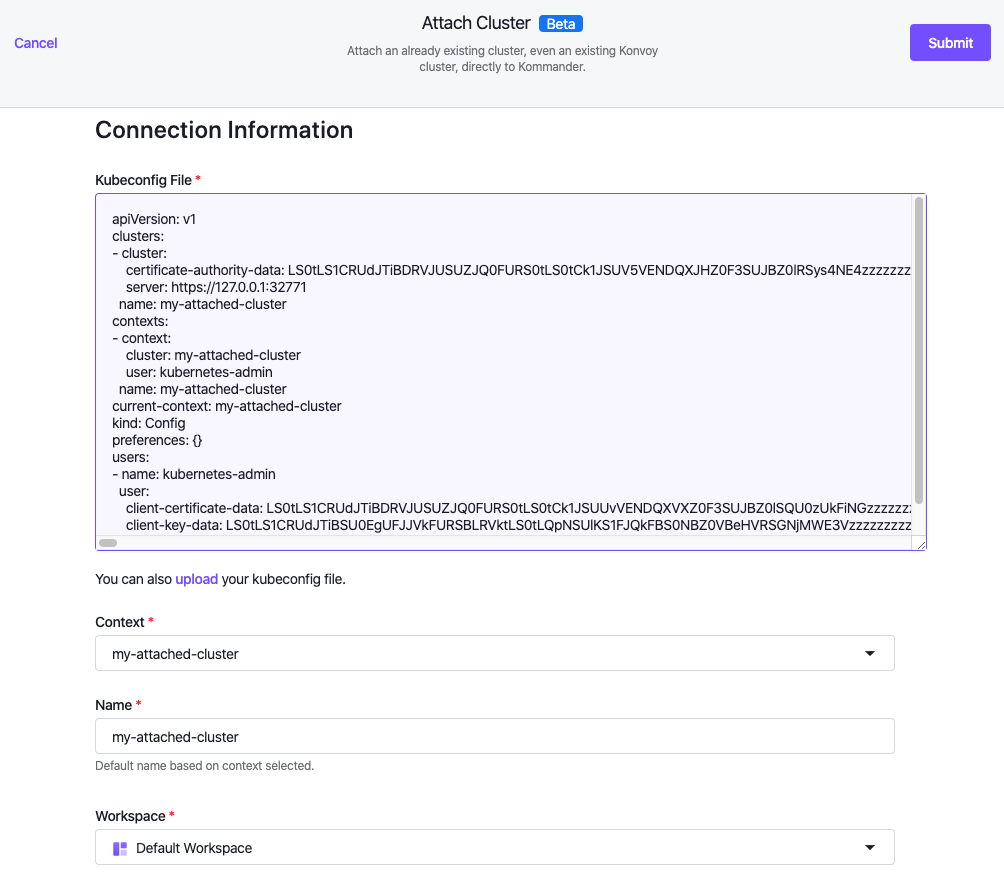
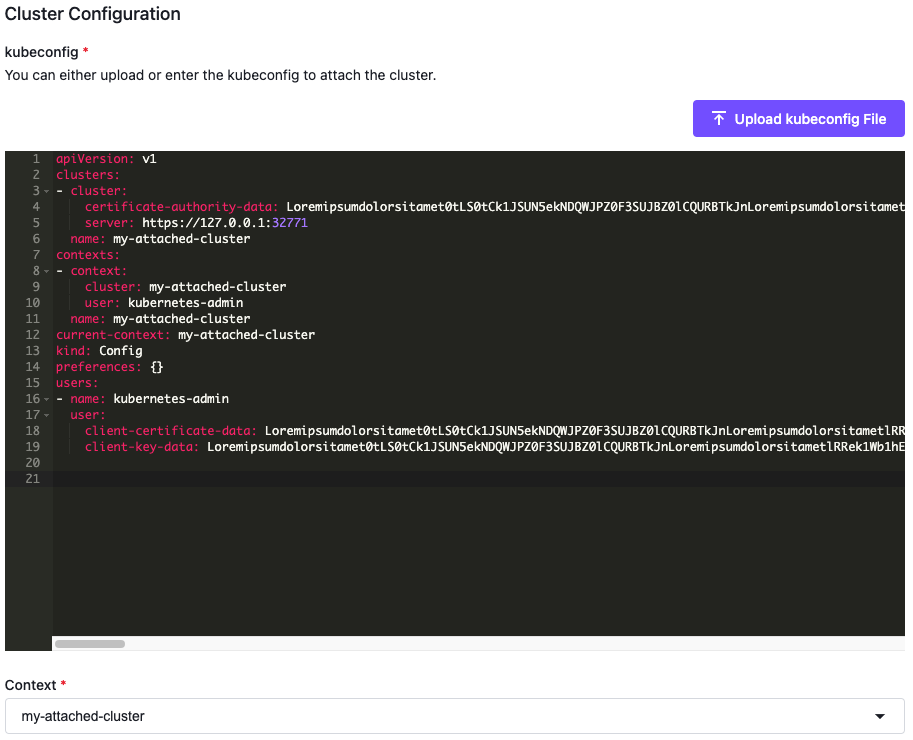
docs: sync with mesosphere/kommander:main

diff --git a/pages/dkp/kommander/2.0/workspaces/service-federation/index.md b/pages/dkp/kommander/2.0/workspaces/service-federation/index.md
@@ -9,87 +9,24 @@ excerpt: How to federate services on to attached clusters
 <!-- markdownlint-disable MD004 MD040 -->
 
 This topic describes how to federate a service to an attached cluster.
-<p class="message--note"><strong>NOTE: </strong>Single-Sign-On stack is not currently supported, so some of these services may not be fully functional.</p>
+<p class="message--warning"><strong>WARNING: </strong>Single-Sign-On (SSO) stack is not currently supported. Services configured to use SSO might not function properly or completely.</p>
 
 Currently, the `reloader` service is automatically federated to attached clusters. To federate other services, follow the steps below.
 
 ## Before you begin
 
-You need certain software configurations and settings before you start this procedure. This procedure requires the following items and configurations:
+You must have the following before you begin:
 
-- A running cluster with Kommander installed
-- An unattached Kubernetes cluster
+- A running cluster with [Kommander installed](../../install/).
+- An [existing Kubernetes cluster attached to Kommander](../../clusters/attach-cluster/).
 
-## Attach a cluster
+Set the `WORKSPACE_NAMESPACE` environment variable to the name of the workspace's namespace where the cluster is attached:
 
-Run the following commands on the Kommander cluster to create a workspace and attach a cluster into it.
-
-<p class="message--important"><strong>IMPORTANT: </strong>The Default Workspace is currently reserved for the host management cluster. All other clusters must be attached to a different workspace.</p>
-
-1. Create a new workspace:
-
-```yaml
-cat <<EOF | kubectl apply -f -
-apiVersion: workspaces.kommander.mesosphere.io/v1alpha1
-kind: Workspace
-metadata:
-  name: workspace-test
-EOF
+```sh
+export WORKSPACE_NAMESPACE=<workspace_namespace>
 ```
 
-After the workspace is successfully created, it appears in the list:
-
-```bash
-kubectl get workspaces
-NAME                DISPLAY NAME        WORKSPACE NAMESPACE           AGE
-default-workspace   Default Workspace   kommander-default-workspace   62m
-workspace-test                          workspace-test-vjsfq          12m
-```
-
-<p class="message--note"><strong>NOTE: </strong>Use the newly created workspace namespace and adjust the following commands accordingly. The actual namespace shown is a generated component, so it is different than the listed commands.</p>
-
-1. Create a secret containing the kubeconfig for the cluster you want to attach:
-
-```bash
-kubectl create -n workspace-test-vjsfq secret generic kommander-spoke-1-kubeconfig --from-file=kubeconfig
-```
-
-1. Create the `KommanderCluster` resource. This attaches the cluster and makes it visible in Kommander.
-
-<p class="message--note"><strong>NOTE: </strong>Creating the resource inside the workspace namespace ensures the cluster is part of the workspace.</p>
-
-```yaml
-cat <<EOF | kubectl apply -f -
-apiVersion: kommander.mesosphere.io/v1beta1
-kind: KommanderCluster
-metadata:
-  name: kommander-spoke-1
-  namespace: workspace-test-vjsfq
-spec:
-  kubeconfigRef:
-    name: kommander-spoke-1-kubeconfig
-EOF
-```
-
-The cluster achieves `Joined` status:
-
-```bash
-kubectl get kommandercluster -A
-NAMESPACE                     NAME                DISPLAY NAME   STATUS   KUBEFED CLUSTER     AGE
-kommander-default-workspace   host-cluster                       Joined   host-cluster        66m
-workspace-test-vjsfq          kommander-spoke-1                  Joined   kommander-spoke-1   6m29s
-```
-
-Additionally, the cluster must appear in the list of kubefed-clusters:
-
-```bash
-kubectl get kubefedclusters -A
-NAMESPACE   NAME                AGE     READY
-kommander   host-cluster        66m     True
-kommander   kommander-spoke-1   2m47s   True
-```
-
-## Deploy a service
+## Deploy the service
 
 The list of available platform services that can be federated on the attached cluster are:
 
@@ -102,11 +39,9 @@ grafana-logging-6.9.1          grafana-logging
 istio-1.9.1                    istio
 jaeger-2.21.0                  jaeger
 kiali-1.29.0                   kiali
-kommander-current              kommander
 kube-oidc-proxy-0.2.5          kube-oidc-proxy
 kube-prometheus-stack-15.4.6   kube-prometheus-stack
 kubecost-0.13.0                kubecost
-kubefed-0.8.1                  kubefed
 kubernetes-dashboard-4.0.3     kubernetes-dashboard
 logging-operator-3.10.0        logging-operator
 loki-distributed-0.33.1        loki-distributed
@@ -119,87 +54,95 @@ traefik-forward-auth-0.2.14    traefik-forward-auth
 velero-3.1.1                   velero
 ```
 
-**Note:**  `dex`, `kubefed`, `kommander` and `dex-k8s-authenticator` are excluded from the list because they cannot be federated on the attached clusters.
+<p class="message--note"><strong>NOTE: </strong><code>dex</code>, <code>kubefed</code>, <code>kommander</code> and <code>dex-k8s-authenticator</code> are excluded from the list because they cannot be federated on an attached clusters.</p>
 
-With the cluster now attached, deploy one of the defined services with an `AppDeployment` resource. The `AppDeployment` has an `appRef` that specifies which `App` is federated.
+<p class="message--note"><strong>NOTE: </strong>Currently, Kommander only supports a single deployment of <code>cert-manager</code> per cluster. Because of this <code>cert-manager</code> can not be installed on <code>konvoy</code> managed <code>AWS</code> clusters.</p>
 
-```yaml
-cat <<EOF | kubectl apply -f -
-apiVersion: apps.kommander.d2iq.io/v1alpha1
-kind: AppDeployment
-metadata:
-  name: cert-manager-0.2.7
-  namespace: workspace-test-vjsfq
-spec:
-  appRef:
-    name: cert-manager-0.2.7
-EOF
-```
+<p class="message--note"><strong>NOTE: </strong>Only a single deployment of <code>traefik</code> per cluster is supported.</p>
 
-To instruct Kommander to federate the `AppDeployment` to the `KommanderCluster`s in the same workspace, create the resource in the workspace you just created.
-The `appRef.name` must match the app `name` from the list of available services.
+1.  Deploy one of the supported services to [your existing attached cluster](../../clusters/attach-cluster/) with an `AppDeployment` resource.
+
+1.  Within the `AppDeployment`, define the `appRef` to specify which `App` will be federated:
+
+    ```yaml
+    cat <<EOF | kubectl apply -f -
+    apiVersion: apps.kommander.d2iq.io/v1alpha1
+    kind: AppDeployment
+    metadata:
+      name: cert-manager-0.2.7
+      namespace: ${WORKSPACE_NAMESPACE}
+    spec:
+      appRef:
+        name: cert-manager-0.2.7
+    EOF
+    ```
+
+1.  Create the resource in the workspace you just created, which instructs Kommander to federate the `AppDeployment` to the `KommanderCluster`s in the same workspace.
+
+<p class="message--note"><strong>NOTE: </strong>The <code>appRef.name</code> must match the app <code>name</code> from the list of available services.</p>
 
 ## Deploy a service with a custom configuration
 
-Locate the default service configuration in a `ConfigMap`:
+1.  Locate the default service configuration in the `ConfigMap`:
 
-```bash
-kubectl get configmap -n workspace-test-vjsfq metallb-d2iq-defaults -oyaml
-```
+    ```bash
+    kubectl get configmap -n ${WORKSPACE_NAMESPACE} metallb-d2iq-defaults -oyaml
+    ```
 
-To provide custom configuration on top of the default configuration, provide the name of a `ConfigMap` in the `AppDeployment`:
+1.  Provide the name of a `ConfigMap` in the `AppDeployment`, which provides custom configuration on top of the default configuration:
 
-```yaml
-cat <<EOF | kubectl apply -f -
-apiVersion: apps.kommander.d2iq.io/v1alpha1
-kind: AppDeployment
-metadata:
-  name: metallb-0.12.2
-  namespace: workspace-test-vjsfq
-spec:
-  appRef:
-    name: metallb-0.12.2
-  configOverrides:
-    name: metallb-overrides-attached
-EOF
-```
+    ```yaml
+    cat <<EOF | kubectl apply -f -
+    apiVersion: apps.kommander.d2iq.io/v1alpha1
+    kind: AppDeployment
+    metadata:
+      name: metallb-0.12.2
+      namespace: ${WORKSPACE_NAMESPACE}
+    spec:
+      appRef:
+        name: metallb-0.12.2
+      configOverrides:
+        name: metallb-overrides-attached
+    EOF
+    ```
 
-The `AppDeployment` waits for the `ConfigMap` named `metallb-overrides-attached` to be present before federating it to the attached clusters:
+1.  The `AppDeployment` waits for the `ConfigMap` named `metallb-overrides-attached` to be present before federating it to the attached clusters:
 
-```yaml
-cat <<EOF | kubectl apply -f -
-apiVersion: v1
-kind: ConfigMap
-metadata:
-  namespace: workspace-test-vjsfq
-  name: metallb-overrides-attached
-data:
-  values.yaml: |
-    configInLine:
-       address-pools:
-        - name: default
-           protocol: layer2
-           addresses:
-           - 172.17.255.150-172.17.255.199
-EOF
-```
+    ```yaml
+    cat <<EOF | kubectl apply -f -
+    apiVersion: v1
+    kind: ConfigMap
+    metadata:
+      namespace: ${WORKSPACE_NAMESPACE}
+      name: metallb-overrides-attached
+    data:
+      values.yaml: |
+        configInLine:
+           address-pools:
+            - name: default
+               protocol: layer2
+               addresses:
+               - 172.17.255.150-172.17.255.199
+    EOF
+    ```
 
 ## Verify services
 
-These services are now federated. Connect to the attached cluster and check the `HelmReleases` to verify the deployment:
+The services are now federated. Connect to the attached cluster and check the `HelmReleases` to verify the deployment:
 
 ```bash
-kubectl get helmreleases -n workspace-test-vjsfq
+kubectl get helmreleases -n ${WORKSPACE_NAMESPACE}
 NAMESPACE               NAME        READY   STATUS                             AGE
 workspace-test-vjsfq    metallb     True    Release reconciliation succeeded   7m3s
 ```
 
-Note that some of these services have dependencies between themselves. See this list for the services dependencies:
+**Note** Some of the supported services have dependencies on other services:
 
 * `istio` **depends on** `kube-prometheus-stack`.
 * `kiali` **depends on** `istio` and `kube-prometheus-stack`.
-* `kube-oidc-proxy` **depends on** `dex`.
 * `kube-prometheus-stack` **depends on** `traefik`.
 * `kubecost` **depends on** `traefik` and `traefik-foward-auth`.
 * `traefik-foward-auth` **depends on** `traefik`.
 * `prometheus-adapter` **depends on** `kube-prometheus-stack`.
+* `velero` **depends on** `traefik`.
+* `kubernetes-dashboard` **depends on** `traefik`.

diff --git a/pages/dkp/kommander/2.0/clusters/attach-cluster/requirements-for-attaching/index.md b/pages/dkp/kommander/2.0/clusters/attach-cluster/requirements-for-attaching/index.md
@@ -8,23 +8,27 @@ excerpt: Requirements for attaching an existing cluster to Kommander
 
 ## Basic requirements
 
-To attach an existing cluster to Kommander, the Kommander management cluster must be able to reach the services and the api-server of the target cluster.
+To attach an existing cluster to Kommander, the Kommander management cluster must be able to reach the services and the `api-server` of the target cluster.
 
-You can attach existing clusters with or without networking restrictions to Kommander. These networking restrictions refer to clusters that are located in a DMZ, behind a proxy server or a firewall, or that have additional requirements for access.
+<!--- You can attach existing clusters with or without networking restrictions to Kommander. These networking restrictions refer to clusters that are located in a DMZ, behind a proxy server or a firewall, or that have additional requirements for access. -->
 
 <p class="message--note"><strong>NOTE: </strong>Kommander does not support attachment of K3s clusters.</p>
 
-For attaching existing clusters without networking restrictions the requirements depend on which Kommander version you are using. Each version of Kommander supports a specific range of Kubernetes versions. You must ensure that the target cluster is running a compatible version.
+For attaching existing clusters without networking restrictions, the requirements depend on which Kommander version you are using. Each version of Kommander supports a specific range of Kubernetes versions. You must ensure that the target cluster is running a compatible version.
 
-For example, Kommander 1.4 supports Kubernetes versions between 1.18.0 and 1.20.x. Any cluster you want to attach using Kommander 1.4 must be running a Kubernetes version in that range.
+For example, Kommander 2.0 supports Kubernetes versions between 1.19.0 and 1.21.x. Any cluster you want to attach using Kommander 2.0 must be running a Kubernetes version in that range.
 
-For attaching clusters with networking restrictions the Kubernetes version of the cluster you want to attach must be greater than or equal to version 1.19.x. For these types of clusters, the Kommander cluster uses a tunnel to access the clusters you plan to attach. Any managed service you want to expose in the Kommander cluster requires the creation of a reverse proxy, or the use of HTTPS_PROXY environment variables that point to the Kommander tunnel proxy server.
+<!--- For attaching clusters with networking restrictions the Kubernetes version of the cluster you want to attach must be greater than or equal to version 1.19.x. For these types of clusters, the Kommander cluster uses a tunnel to access the clusters you plan to attach. Any managed service you want to expose in the Kommander cluster requires the creation of a reverse proxy, or the use of HTTPS_PROXY environment variables that point to the Kommander tunnel proxy server.
 
-When working with clusters that have networking restrictions, you will need to apply some YAML manifests on the existing cluster, so that Kommander can collect a resulting `kubeconfig` file used to establish the tunnel. When you use the Kommander UI, this is handled for you. If you choose to use the manual [CLI attachment process][manual_cli_attachment], you will apply those manifests as part of the procedure.
+When working with clusters that have networking restrictions, you will need to apply some YAML manifests on the existing cluster, so that Kommander can collect a resulting `kubeconfig` file used to establish the tunnel. When you use the Kommander UI, this is handled for you. If you choose to use the manual [CLI attachment process][manual_cli_attachment], you will apply those manifests as part of the procedure. -->
 
 ### Projects and Workspaces
 
 Before you attach clusters, you need to create one or more Workspaces, and recommend that you also create Projects within your Workspaces. [Workspaces][workspaces] give you a logical way to represent your teams and specific configurations. [Projects][projects] let you define one or more clusters as a group to which Kommander pushes a common configuration. Grouping your existing clusters in Kommander projects and workspaces makes managing their platform services and resources easier and supports monitoring and logging.
+
+<p class="message--important"><strong>IMPORTANT: </strong>The Default Workspace is currently reserved for the host management cluster.
+All other clusters must be attached to a different workspace.</p>
+
 <!--
 ### Platform service requirements
 

diff --git a/pages/dkp/kommander/2.0/clusters/attach-cluster/index.md b/pages/dkp/kommander/2.0/clusters/attach-cluster/index.md
@@ -9,9 +9,11 @@ excerpt: A guide for attaching an existing Kubernetes cluster using kubeconfig
 ## Attach Kubernetes Cluster
 
 You can attach an existing cluster directly to Kommander. At the time of attachment, certain namespaces are created on the cluster, and workspace platform services are deployed automatically into the newly-created namespaces.
-<!--
+
+<!---
 Review the [workspace platform service resource requirements][platform_service_req] to ensure the attached cluster has sufficient resources. For more information on platform services and customizing them, see [workspace platform services][workspace_platform_services].
 -->
+
 If the cluster you want to attach was created using Amazon EKS, Azure AKS, or Google GKE, create a service account as described below. If you are attaching an Amazon EKS cluster to Kommander, [detailed instructions are available][attach_eks_cluster].
 
 ### Before you begin (optional)
@@ -95,15 +97,23 @@ kubectl --kubeconfig $(pwd)/kommander-cluster-admin-config get all --all-namespa
 
 Using the **Add Cluster** option, you can attach an existing Kubernetes or Konvoy cluster directly to Kommander. This enables you to access the multi-cluster management and monitoring benefits that Kommander provides, while keeping your existing cluster on its current provider and infrastructure.
 
-1.  Select the **Attach Cluster** option to display the **Connection Information** dialog box. This dialog box accepts a kubeconfig file that you can paste, or upload, into the field.
+1.  From the Clusters page, select **Add Cluster**.
 
-1.  Select the intended context, or change the display name provided with the config in the **Context** select list. You can also add labels to classify your cluster<!-- and select the platform services to install-->.
+1.  Select the **Attach Cluster** option.
 
-<!--
+1.  Select the **No additional networking restrictions** card to display the **Cluster Configuration** dialog box. This dialog box accepts a kubeconfig file that you can paste, or upload, into the field.
+
+1.  Select the **Workspace** you want to contain the cluster, and select the intended context, or change the display name provided with the config in the **Context** select list. You can also add labels to classify your cluster.
+
+1.  Select **Submit** to attach your cluster.
+
+<!---
 Platform services extend the functionality of Kubernetes and allow you to deploy ready-to-use logging and monitoring stacks by federating platform services when attaching a cluster to Kommander. For more information, refer to [workspace platform services][workspace_platform_services].
 -->
+
 ![Add Cluster Connect](/dkp/kommander/2.0/img/add-cluster-connect.png)
 
+<!---
 ## Accessing your managed clusters using your Kommander administrator credentials
 
 After the cluster has attached successfully, and you can access the UI, you can retrieve a custom kubeconfig.
@@ -113,9 +123,10 @@ After the cluster has attached successfully, and you can access the UI, you can 
 1.  Select the attached cluster name, and follow the instructions to assemble a kubeconfig file for accessing its Kubernetes API.
 
 You can also retrieve a custom kubeconfig by visiting the `/token` endpoint on the Kommander cluster domain. Selecting the attached cluster name displays the instructions to assemble a kubeconfig for accessing its Kubernetes API.
+-->
 
-[clusteradmin]: https://kubernetes.io/docs/concepts/cluster-administration/cluster-administration-overview/
-[kubectl]: https://kubernetes.io/docs/tasks/tools/install-kubectl/
+[clusteradmin]: https://kubernetes.io/docs/concepts/cluster-administration/
+[kubectl]: https://kubernetes.io/docs/tasks/tools/
 <!--[workspace_platform_services]: /dkp/kommander/2.0/workspaces/workspace-platform-services/
 [platform_service_req]: /dkp/kommander/2.0/workspaces/workspace-platform-services/platform-service-requirements/-->
 [attach_eks_cluster]: /dkp/kommander/2.0/clusters/attach-cluster/attach-eks-cluster/

diff --git a/pages/dkp/kommander/2.0/clusters/attach-cluster/attach-eks-cluster/index.md b/pages/dkp/kommander/2.0/clusters/attach-cluster/attach-eks-cluster/index.md
@@ -118,9 +118,11 @@ Now that you have kubeconfig, go to the Kommander UI and follow these steps belo
 
 1.  Select the **Add Cluster** button in your Kommander window.
 
-1.  Select the **Attach Cluster** button. The **Connection Information** window displays.
+1.  Select the **Attach Cluster** button.
 
-1.  Paste the contents of your clipboard into the **Connection Information** Kubeconfig File text box.
+1.  Select the **No additional networking restrictions** card to display the **Cluster Configuration** dialog box. This dialog box accepts a kubeconfig file that you can paste, or upload, into the field.
+
+1.  Paste the contents of your clipboard (or upload the file you created) into the Kubeconfig File text box.
 
 1.  Assign a name and add any desired labels for the cluster.
 

diff --git a/pages/dkp/kommander/2.0/clusters/index.md b/pages/dkp/kommander/2.0/clusters/index.md
@@ -16,7 +16,7 @@ There are several types of clusters that display in the Clusters tab. The cluste
 The type values include:
 
 - **Attached**: An Attached cluster is one that was not created with Kommander. You cannot manage an Attached cluster's lifecycle, but you can monitor it.
-- **Managed**: A Managed cluster is a Konvoy cluster that was created with Kommander. You can use Kommander to manage a Managed cluster's lifecycle.
+<!--- - **Managed**: A Managed cluster is a Konvoy cluster that was created with Kommander. You can use Kommander to manage a Managed cluster's lifecycle. **Note:** This is not yet available in Kommander v2.0. -->
 - **Management**: This is the Konvoy cluster that hosts Kommander.
 
 ## Statuses
